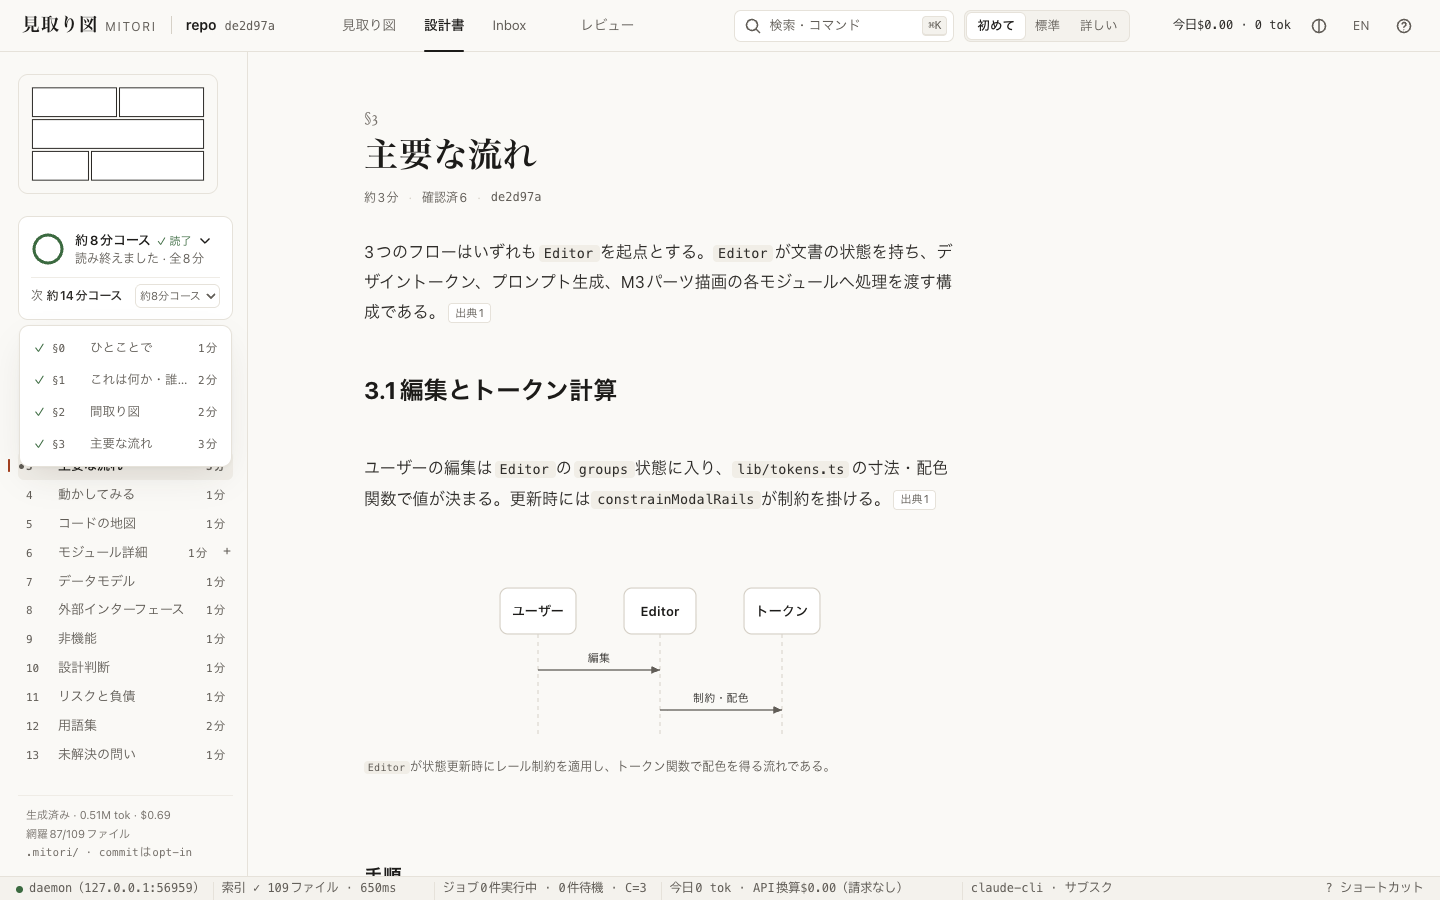
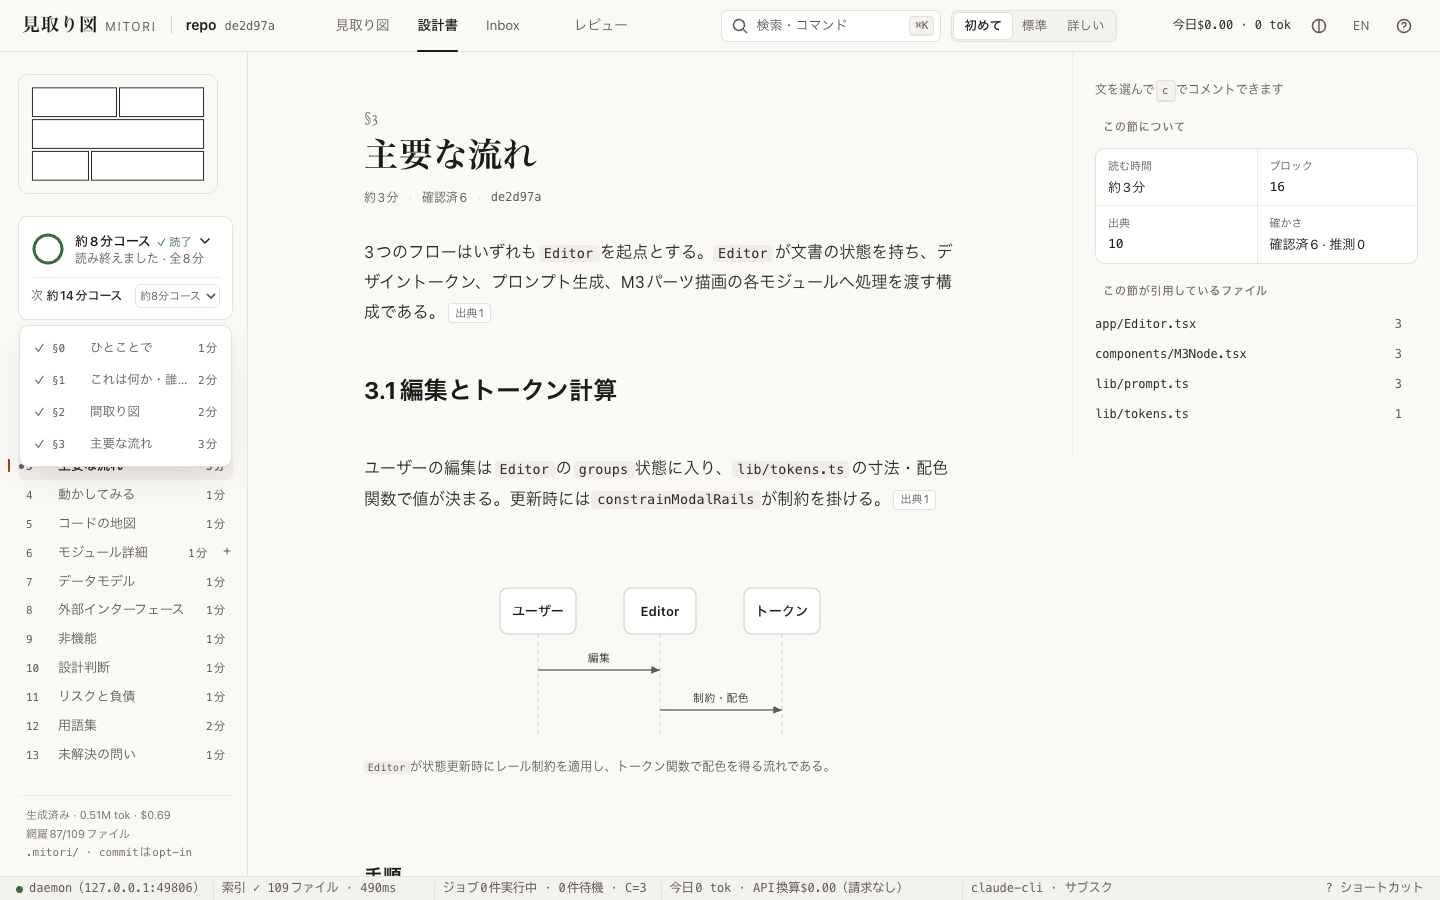
docs(progress): rem-ui — the ui track of the remaining-backlog pass, before / after; CR ui-2..4
docs/progress/rem-ui.md: per-item result and regression tests (NC-04/08/09/
13/14/15/17, EX-08..11, CitePeek, TermCard, the export dialog, F5-F7), the
bugs found and fixed on the way, route JS 118.8 -> 86.3 / 112.2 -> 90.1 KB,
the bun run size table against main, CLS and interaction numbers, and
what is left (60 KB target, F6 server ranges, daemon RSS, 501 routes,
exact-only viewer search, the stale AC-J01 spec).

CR-LEDGER §8 / cr-requests/ui.md: ui-2 CodePin.blob? (applied), ui-3 big
section ranges + JSON compression (deferred, server / api), ui-4 the
revert / translate / simplify handlers (deferred, loop / server).

docs/progress/ui2: the 12 shots and ui2-run.json re-taken on the final
build (console errors 0, 4xx/5xx 0).

diff --git a/docs/progress/rem-ui.md b/docs/progress/rem-ui.md
@@ -1,0 +1,120 @@
+# rem-ui — 残課題パス（track ui、branch `rem/ui`、2026-10-04）
+
+`docs/progress/audit-resolution.md` で「見送り / 一部」になった UI の残課題を片付けた。所有範囲は `apps/web/**`・
+`packages/doc/src/render/`・`packages/server/src/wiring/{settings,export}*.ts`（後ろ 2 つは変更なし）。契約・core の変更は
+`packages/core/CR-LEDGER.md` §8 と `docs/design/cr-requests/ui.md` に記録した（CR ui-1〜ui-4）。
+**LLM の実費はゼロ**（実エンジン禁止。UI の確認は mock daemon、`test/int/shots/ui2.ts` は in-process daemon + スクリプト版
+claude、文書は dogfood2 の生成済み m3e-canvas）。
+
+## 結果一覧
+
+| # | 項目 | 結果 | 証拠（回帰テスト） |
+|---|---|---|---|
+| NC-08 | 初回は「初めて」+ 5 分コース | **直した**: cookie にレベルが無く初回印も無いブラウザは「初めて」で開き、即座に保存（debounce 中の再読込で「標準」に戻らない）。§0 に歓迎カード（実時間つきのコース・今のレベル・この文書の使い方 1 行、× で ws ごとに閉じる） | `firstrun.test.ts`、`e2e/web/first-run.pw.ts`、`ui2-06` |
+| NC-09 | ⌘K で本文の全文検索 → ブロックへ移動 → 「AI に聞く」 | **直した**: 初回に遅延で作る本文索引（Reader が持つ節 + 残りを目次順に 4 並列、HTML は保持しない、block の upsert で差分更新）。完全一致 → 自然文の近似（漢字 / カタカナ bigram・英単語を idf で重み付け、疑問語を除く、複合語の境界 bigram を捨てる）。ヒットは該当ブロックを開いて語を CSS highlight。常に最後に「AI に聞く」= 一番のヒットのブロック（無ければ §0）で Composer を Explain で開き、質問を入れて**送信はしない** | `fulltext.test.ts`、`doctext.test.ts`、`anchor.test.ts`（質問の置き場所）、`ui2-01〜05`（m3e: 初回の検索 10〜13 ms、ジャンプ 10〜32 ms） |
+| NC-13 | ヘルプ「この画面でできること」 | **直した**: `?` が今の画面の 3 手順（Reader: 読む → 選んで聞く → 確かめて採用 / 地図 / Review / Inbox / コード）＋典型コスト＋エンジンが今受けられるか、その下にキー表。文字列は help カタログ chunk | `help-guide.test.ts`、`ui2-08` |
+| NC-14 | EN のヘッダー重なり・翻訳の入口 | **直した**: タブが入らないときは情報の薄い順に落とす（1: HEAD/tag と使用量、2: ブランドの英字と検索ラベル）。レベルは 1 回で決める（落とす量の最小、DOM を flush しながら測る）。タブ自体の幅変化（件数・別言語のカタログ）でも測り直す。英語 UI × 和文 doc には「AI に英語で説明させる」（Explain の下書き、送らない）。設定の変更は再読込をまたいで残る（保留中の PATCH を localStorage に置き、版を知ってから送る） | `prefs.test.ts`、`e2e/web/i18n.pw.ts`（英語で全タブが欠けない・再読込後も）、`ui2-10/11`（重なり 0） |
+| NC-15 | 読書パスの残り時間と完了 | **直した**: 節の**終わり**が画面に入ったら既読（仮想窓の mount に追従する end marker）、止まる全コースに効く。残り時間はストップごとに減る。名目と実時間が大きくずれたコースは実時間で呼ぶ（約 8 分コース）。完了したら「完了」と次のコース。ストップ一覧はカードから開く（1 層の popover） | `reading.test.ts`、`ui2-07` |
+| NC-17 | popover を 1 層に | **直した**: cite peek・用語カード・claim 確認・ブロック履歴は互いに閉じ、どれも layer（Escape で今のものを閉じる）。Composer が開くと全部閉じる | `e2e/web/popovers.pw.ts` |
+| NC-04 | 地図の「文脈」ズーム | **直した**: 文脈段で建物にキャプション（名前・何であるか 1 文 = 生成済み §0 の lede、無ければ README の最初の段落・外部アクター）。部屋名は残す（大きさ・パス・チップは近い段だけ） | `map.test.ts`（キャプションの 1 文）、`e2e/web/map.pw.ts` AC-J06（全ズーム段でラベル ≥ 11 px・部屋で clip）、`ui2-12` |
+| EX-08 | Undo の後のコード列 | **直した**: 採用 / Undo（SSE `index.changed`）で開いているファイルを即読み直し、変わったファイルの窓キャッシュと静的 fact の peek を捨てる。claim の cite から開いた pin は引用時の blob を持ち、版が違えば「今の版の行」と言う（CR ui-2） | `e2e/web/code-column.pw.ts` |
+| EX-09 | Review の左本文をアンカーへ | **直した**: Review route は左の本文をジョブのアンカー（無ければ最初の doc 提案）のブロックで開き、中央に寄せて印を付ける。キーボードは Review パネルのまま | `reader.test.ts`（`reviewAnchor`: doc に錨のあるスレッド → 提案のブロック → なし） |
+| EX-10 | 履歴 UI・全主張への ✓✓ | **直した**: 「詳しい」の gutter と ⌘K「この段落の履歴」で段落の版を新しい順に（何が・誰が・いつ・どのレビュー回）。段落全体の人の確認（`POST /verify` は段落の全 claim に付く）を履歴と**どの** claim の peek からも（推測だけでなく）。✓✓ は取り消せる | `e2e/web/popovers.pw.ts`（POST verify 1 回） |
+| EX-11 | trust toast がフッターに重ならない | **直した**: toast はコンテキスト列 / 地図のカード列の横に置く（送信・採用・却下を覆わない）。一時停止した実行は未生成の頁でそう言い「再開する」を出す | `width.test.ts`（AC-U-W01 の全幅）、`page.test.ts`（`genNoteOf`: 一時停止 / 未生成 / 書かれた頁） |
+| — | CitePeek の行番号 | **直した**: export にあった行番号の gutter を app にも（コンポーネントへ移動、1 行 1 行） | `e2e/web/popovers.pw.ts` |
+| — | TermCard のローマ字・英語の重複 | **直した**: 読みは漢字のときだけ、英語名は用語と違うときだけ、識別子には定義ファイル、ローマ字は出さない | `term.test.ts` |
+| — | アプリ内の HTML 書き出し | **直した**: ⌘K（`action.exportHtml`）と設定「書き出し」からダイアログ: 開くレベル・言語・決定事項・コードの抜粋（なし = コード無し）。選択が変わるたびに既存の `POST /ws/:ws/export`（0 tok）を再実行し、**できるファイル**の大きさ・抜粋の数・伏せた秘密の数を言う。ダウンロードはその結果そのもの | `export.test.ts`、`e2e/web/export-dialog.pw.ts`（⌘K と設定から・要約が選択に追従・最後の状態を書き出す・2 回目の要求なしでダウンロード・Escape でフォーカスが戻る）、`ui2-09`（m3e: 1.08 MB / 抜粋 134 箇所 37 ファイル、コード無し 561 KB） |
+| F5 | 初期 JS 117.7 KB → ≤ 60（警告）、> 150 にしない | **一部**: route ごとの初回描画までの JS は S1 118.8 → **86.3 KB**、S2 112.2 → **90.1 KB**（上限 150 は満たす、目標 60 は未達 → 残り 1） | `e2e/web/size.pw.ts`、下の表 |
+| F6 | 大きな節の分割配信 | **一部**: クライアント側は 1 万 block の節でも DOM ≤ 2,440（仮想窓）・初回描画 121〜134 ms（mock）。範囲取得と JSON 圧縮は server の仕事 → CR ui-3（deferred） | `e2e/web/big-section.pw.ts` |
+| F7 | 1 万 block のメモリ | **測った**: JS heap（GC 後）§0 5.0 MB → 1 万 block の節 27.3 MB → ⌘K 本文索引込み 32.7 MB。daemon RSS は所有外（残り 3） | `e2e/web/big-section.pw.ts` |
+
+このパスで見つけて直したもの（＊ = この branch の途中で入れてしまい、同じ branch で直したもの。他は main でも起きていた）:
+
+| 不具合 | 直し方 | 回帰テスト |
+|---|---|---|
+| AC-U03 地図の初回描画が動く（1440: 0.0287、1280: 0.0019） | README / lede の枠とタイル列を予約（profile が「無い」と言うまで skeleton、その後は空き）、meta 2 行・抜粋 3 行、未生成 repo の見積りカードの高さを予約（464 / 484 / 445 px） | `reader.pw.ts` AC-U03（両幅 0） |
+| AC-U03 Reader の初回描画が動く（0.0126〜0.0142、spec の閾値 < 0.01 も AC の ≤ 0.001 も未達） | rail の minimap の箱を最初から持つ（地図 view を待っていた: パスカードと目次が 142 px 落ちた）、使用量の枠、余白のヒントを統計の上へ | `reader.pw.ts`（≤ 0.001 に締めた、実測 0） |
+| ヘッダーのプロジェクト名が後から来てタブが動く | 最後に出したチップ（名前・HEAD・tag）を ws ごとに覚えて即描画。初めての ws は 11em を保持（入らないときは文字を落とす前に手放す） | `reader.pw.ts`（再訪の 2 回目の起動で予約なし・CLS 0）、`i18n.pw.ts` |
+| 「この節について」が loop UI の到着で消える | loop の余白が空（スレッドも Composer も無い頁）なら空余白をそのまま出す（`display: contents` の host + `:empty`） | `reader.pw.ts`（loop の install 後も表示） |
+| cite peek が wheel の後にチップを覆う（12 回中 2 回） | 高さの上限付きで置いた peek を、上限を外して測る（`naturalHeight`）。上限付きの高さで測ると「入る」と判断して上限を外し、伸びて覆い、observer がまた上限を付ける振動だった。term card・claim・履歴も同じ測り方に | `reader.test.ts`（2 回置いて同じ箱）、`reader.pw.ts`（再配置 3 回でも隙間 ≤ 8 px、12/12） |
+| ＊ ヘッダーの縮退が 0 ↔ 1 を往復する（タブも監視したため） | 上の「1 回で決める」へ（ヒステリシス 120 px より使用量の枠の方が広かった） | `i18n.pw.ts` ja → en の shift 0.0084（≤ 0.01） |
+| AC-J06 の spec が部屋の大きさラベルを「clip されない」と誤判定 | `.corner`（overflow visible の 0 サイズの錨）ではなく部屋自身の `<svg>` を clip として見る | `map.pw.ts` AC-J06 |
+| ＊ export viewer が予算超過（60.19 KB） | 近似 tier を注入式にして viewer では渡さない（viewer の検索は main と同じく完全一致）、peek の ✓✓ を app だけの `PeekVerify` に | `fulltext.test.ts`（tier 無しは完全一致だけ）、`@export` e2e 29 本 |
+
+## 計測（before = main `a427f36` の build、after = この branch の最終）
+
+route ごとの初回描画（`mitori:map:painted` / `mitori:section:rendered`）までに読んだ JS、gzip（`e2e/web/size.pw.ts`、KB = 1,024 B）:
+
+| route | before | after | 内訳（after） |
+|---|---|---|---|
+| S1 地図 | 118.8 | **86.3** | entry 59.4 · i18n-ja 9.7 · map 16.3 · boot 0.6 · engine 0.3 |
+| S2 Reader | 112.2 | **90.1** | entry 59.4 · i18n-ja 9.7 · reader 18.4 · decorate 1.6 · levels 0.4 · boot 0.6 |
+
+before は loop UI（19 KB）と全文字列のカタログ（18.7 KB）を初回に読んでいた。after は loop を描画後の idle（Inbox / Review route・選択・c / e / f では即時）、カタログを base + 遅延 4 群（loop・help・palette・gen）に分けた。
+
+`bun run size`（served gzip、KB = 1,000 B。before は main の同じ設定の build を gzip -9 で測った値）:
+
+| budget | before | after | target / limit |
+|---|---|---|---|
+| asset.js.initial.gz（shell が静的に要求する 2 ファイル = entry + boot） | 58.1 | 61.5 | 60 / 150 |
+| asset.chunk.entry | 57.6 | 60.9 | 30 / 34.5 |
+| asset.chunk.i18n-ja | 18.7 | **9.9** | 9 / 10.35 |
+| asset.chunk.i18n-en | 16.8 | **8.6** | 8 / 9.2 |
+| asset.chunk.loop | 18.9 | 19.4 | 12 / 13.8（初回描画には載らなくなった） |
+| asset.chunk.reader（本体 + pop） | 18.7 | 23.1 | 12 / 13.8 |
+| asset.chunk.palette | 3.4 | 7.7 | 4 / 4.6（本文索引・近似 tier・「AI に聞く」） |
+| asset.chunk.gen | 9.0 | 9.2 | 6 / 6.9 |
+| asset.chunk.map | 16.3 | 16.6 | 9 / 10.35 |
+| asset.viewer.js | 58.4 | **59.4** | 60 / 70（ok） |
+| asset.css.gz | — | 13.1 | 15 / 25（ok） |
+
+entry が 3.3 KB 増えたのは NC-15 の rail（+5.1 KB raw）・カタログの loader（+1.5 KB raw）・ヘッダーの縮退と chip の記憶。
+Rail を entry から出すと静的な値は 58.1 に戻るが、route の実際の初期 JS は 1 KB 増える（chunk 境界で圧縮が効かない）ので
+やらなかった（実測の route 値を優先）。
+
+操作の速さ（mock、他エージェント稼働中の Apple M-series。上限は spec のまま、緩めていない）:
+
+| 計測 | 値 | 上限 |
+|---|---|---|
+| レベル切替（AC-J20） | 1.6〜14.5 ms | 50 ms |
+| 節の遷移（目次クリック、p95） | 24〜55 ms | 100 ms |
+| ⌘K worker（50k 項目、p95） | 3.1 ms | 16 ms |
+| ⌘K 本文: 初回のヒット（1 万 block） | 218〜227 ms（索引の作成込み） | — |
+| ⌘K 本文: m3e（実文書）の初回検索 / ジャンプ | 10〜13 ms / 10〜32 ms | — |
+| 1 万 block の節: 初回描画 / DOM（描画時・最大） | 121〜134 ms / 1,389・2,440 | DOM 15,000 |
+| CLS 地図の起動 1440 / 1280、Reader の起動 | 0 / 0 / 0（before 0.0287 / 0.0019 / 0.0142） | 0.001 |
+| ja → en 切替の shift（クリック直後も数える） | 0.0084 | 0.01 |
+
+## 残り・動かないもの
+
+1. **F5 の目標 60 KB は未達**（route で 86.3 / 90.1 KB、上限 150 は満たす）。entry だけで 60.9 KB あり、そのうち Svelte の
+   runtime が約 25 KB、core の route 表（`ROUTE_META` 11 KB raw）と error / pricing 表、`contract.ts` の定数（11 KB raw）、
+   shell（Rail 22 KB・Shell 19.5 KB・Header 15.5 KB raw）と stores（54 KB raw）。次の手: route 表を client 用の
+   `{kind, mutates}` だけに生成する（core / client の変更、所有外）、Rail と Header の縮退ロジックを route chunk へ、
+   stores の初期化を route ごとに。chunk ごとの予算（entry・loop・map・merge・palette・reader・gen）は main と同じく
+   「M3 までは警告」の超過のまま。
+2. **F6 の範囲取得・圧縮は server 側**（CR ui-3、deferred）: `GET …/doc/sections/:section` は節全体を 1 本の非圧縮 JSON で
+   返す（圧縮は static asset だけ、`packages/server/src/http/static.ts`）。1 万 block の実 daemon での転送・parse は測っていない
+   （corpus にその規模の文書が無い。mock の 1 万 block で上の値）。
+3. **F7 の daemon 側**（RSS）は所有外（`packages/server/src/http/rss.int.test.ts` の範囲）。測ったのはクライアントの heap。
+4. **配線されていない route**（501）: ブロックの revert・節 / ブロックの translate・simplify（CR ui-4）。UI はどれも出さない:
+   履歴は読むだけ（「この版に戻す」なし）、英語 UI の和文 doc は「AI に英語で説明させる」（訳の表示ではない）。
+5. **export viewer の ⌘K 本文検索は完全一致だけ**（main と同じ）。近似 tier は app だけ（viewer の 60 KB 予算）。
+6. **AC-J01（`map.pw.ts:8`）は spec が古い**: 地図の作り直し（visual トラック）で `.strip`・`.toc`・`.est .sum` が無くなり、
+   main でも同じく失敗する（`.strip` は main の MapPage にも無い）。新しい配置で「見積りと 0 tok の一覧がスクロール無しで
+   見える」を満たすかは配置の判断なので、spec の書き直しは visual / 地図の持ち主に残す。web e2e は 94 本中これ 1 本だけ失敗。
+7. 1440 px の英語で、長いタブ（件数の枠込み）とプロジェクト名の組み合わせによっては縮退 1（HEAD と使用量を隠す）になる。
+   どちらもステータスバー / 地図にある。重なりと欠けは無い（`ui2-10`）。
+8. `bin.startup` は 35〜50 ms（目標 20、上限 50）。この track の変更ではない（負荷の高い機械での値）。
+
+## 検証
+
+- `scripts/nd bun run check` — ok（tsc・biome・boundaries・cr-ledger・budgets・contract-index・svelte-check）
+- `scripts/nd bun test apps/web` — 358 pass、`packages/core` 60 pass、`e2e/export bench/budgets` 20 pass
+- `MITORI_E2E_SKIP_BUILD=1 scripts/nd bunx playwright test -c e2e/web/playwright.config.ts` — 93 / 94（AC-J01 だけ、上の 6）
+- `MITORI_E2E_CHANNEL=chrome scripts/nd bun run e2e --grep @export` — 29 pass
+- `scripts/nd bun run build:bin && scripts/nd bun run size` — `size: web assets ok`（上の表）
+- `scripts/nd bun scripts/gen-assets.ts && scripts/nd bun test/int/shots/ui2.ts --out docs/progress/ui2` — 12 枚、
+  `ui2-run.json`（コンソールエラー 0・4xx/5xx 0）
+
+スクリーンショット（Chrome、1440×900、m3e-canvas の生成済み文書）: `docs/progress/ui2/ui2-01〜12`。

diff --git a/docs/design/cr-requests/ui.md b/docs/design/cr-requests/ui.md
@@ -11,5 +11,39 @@ Track ui of the remaining-backlog pass (`docs/progress/rem-ui.md`). Owned: `apps
   export viewer (budget 60 KB gz, at 59.9 KB after the NC-09 full-text matcher joined it) and the app entry.
 - change: the index is built on the first `threadTransition()` call (`threadRows ??= …`). Same public surface, same
   behaviour (CORE-U-003 tests unchanged and green).
-- other module-level constructions in core (`errors.ts` `CODES = new Set(ERROR_CODES)`, `ids.ts` `ID_BODY_RE`) stay:
-  every bundle that imports core uses them anyway.
+- other module-level constructions in core stay: `errors.ts` `CODES = new Set(ERROR_CODES)` is used by every bundle
+  that handles an API error; `ids.ts` `ID_BODY_RE = new RegExp(…)` is left in the export viewer although it never
+  calls `isId` — ≈ 40 B gz, not worth a core edit (a `/* @__PURE__ */` on it would drop it).
+
+## #2 web contract: a code pin remembers the blob it was cited against (APPLIED, CR ui-2)
+- where: `apps/web/src/contract.ts` `CodePin.blob?: string` (optional; absent = a static fact or a URL pin).
+- observed (EX-08): after an accepted Fix or its Undo the context column kept showing the cited line numbers over a
+  file that had changed — silently marking other lines.
+- change: a pin / follow from a claim carries the claim's blob; `CodePane` says the lines are the current version's
+  when the file's blob differs (and the column re-reads the file on `workspace.changed`). Optional field: every
+  existing producer and consumer is unchanged.
+
+## #3 api / server: deliver a big section in pieces (DEFERRED, CR ui-3 — F6)
+- observed: `GET /ws/:ws/doc/sections/:section` answers the whole `SectionView` (every block's HTML) in one
+  uncompressed JSON body — `packages/server/src/http/static.ts` precompresses static assets only. The Reader already
+  renders big sections in virtual windows (a 10,000-block section: 1,389 DOM nodes at first paint, ≤ 2,440 while
+  scrolling, e2e/web/big-section.pw.ts), so what is left is the transfer and the parse of the body.
+- request (owner: server / api, not this track):
+  1. `GET /ws/:ws/doc/sections/:section?from=<n>&limit=<n>` → the outline of the section's blocks + the HTML of the
+     window asked for (`SectionView.blocks` with `html` only inside the window; `total`), so the Reader asks for the
+     window around the anchor first and the rest in idle time;
+  2. `content-encoding: br | gzip` on JSON bodies ≥ 8 KB when the request accepts it (HTML-in-JSON is repetitive
+     markup; the web assets of the same build compress 3.5× with br).
+- client side once it exists (this track's owner, apps/web): `stores/doc.svelte.ts` fetches the window around the
+  anchor first, the blocks outside it render as the placeholder rows the Reader already has for ungenerated blocks,
+  and the rest arrives in idle time; DocText (⌘K) keeps fetching whole sections.
+
+## #4 server: the block revert / translate / simplify routes are not wired (DEFERRED, CR ui-4)
+- `POST /ws/:ws/doc/blocks/:block/revert`, `POST /ws/:ws/doc/sections/:section/translate`,
+  `POST /ws/:ws/doc/blocks/:block/translate`, `POST /ws/:ws/doc/blocks/:block/simplify` have no handler on the daemon
+  (`http/app.ts`: a missing handler answers 501 `E_UNSUPPORTED`).
+- the UI therefore offers none of them: the block history (EX-10) is read-only (no 「この版に戻す」), and the English UI
+  over a Japanese doc (NC-14) offers 「AI に英語で説明させる」 (an Explain draft, nothing sent) instead of 「英語で表示」.
+- request: wire them in the loop / doc routes (owner: loop + server); the web entry points are one button each
+  (`reader/BlockHistory.svelte` per revision, `reader/ReaderPage.svelte` the original-language note).
+

diff --git a/packages/core/CR-LEDGER.md b/packages/core/CR-LEDGER.md
@@ -309,3 +309,6 @@
 | id | requester | 決定 | 適用先 | 理由・備考 |
 |---|---|---|---|---|
 | CR ui-1 | ui（F5 / export viewer の予算） | accepted | core `transitions.ts`: thread の遷移表の索引（`THREAD_ROWS`）をモジュール読み込み時ではなく最初の `threadTransition()` で作る (applied)。公開面・挙動は不変 | モジュール直下の `new Map(…)` は副作用なので bundler が落とせず、200 行の `THREAD_TRANSITIONS` が core を import する web の bundle（export viewer 60 KB gz の予算）に毎回入っていた。viewer −0.5 KB gz |
+| CR ui-2 | ui（EX-08） | accepted | web 契約 `apps/web/src/contract.ts` `CodePin.blob?: string`（claim の cite から開いた pin が引用時の blob を持つ。省略 = 静的 fact / URL の pin）(applied) | Fix の採用や Undo の後、コード列が変わったファイルの上に引用時の行番号のまま印を付けていた。blob が違えば「今の版の行」と言う。省略可なので既存の生成側・利用側は不変 |
+| CR ui-3 | ui（F6） | deferred（M3、server / api） | api `GET /ws/:ws/doc/sections/:section` に `?from&limit`（窓の外の block は `html` なし + `total`）、server の JSON 応答（≥ 8 KB）に `content-encoding: br/gzip` | 1 万 block の節も Reader は仮想窓で描く（DOM ≤ 2,440）。残るのは 1 本の非圧縮 JSON の転送と parse。依頼の詳細は `docs/design/cr-requests/ui.md` #3 |
+| CR ui-4 | ui（EX-10 / NC-14） | deferred（M3、loop / server） | server: `POST …/doc/blocks/:block/revert`・`…/sections/:section/translate`・`…/blocks/:block/translate`・`…/blocks/:block/simplify` の handler（今は 501） | UI はどれも出さない（履歴は読むだけ、英語 UI の和文 doc には「AI に英語で説明させる」）。配線されたら web の入口は各 1 ボタン（`docs/design/cr-requests/ui.md` #4） |
